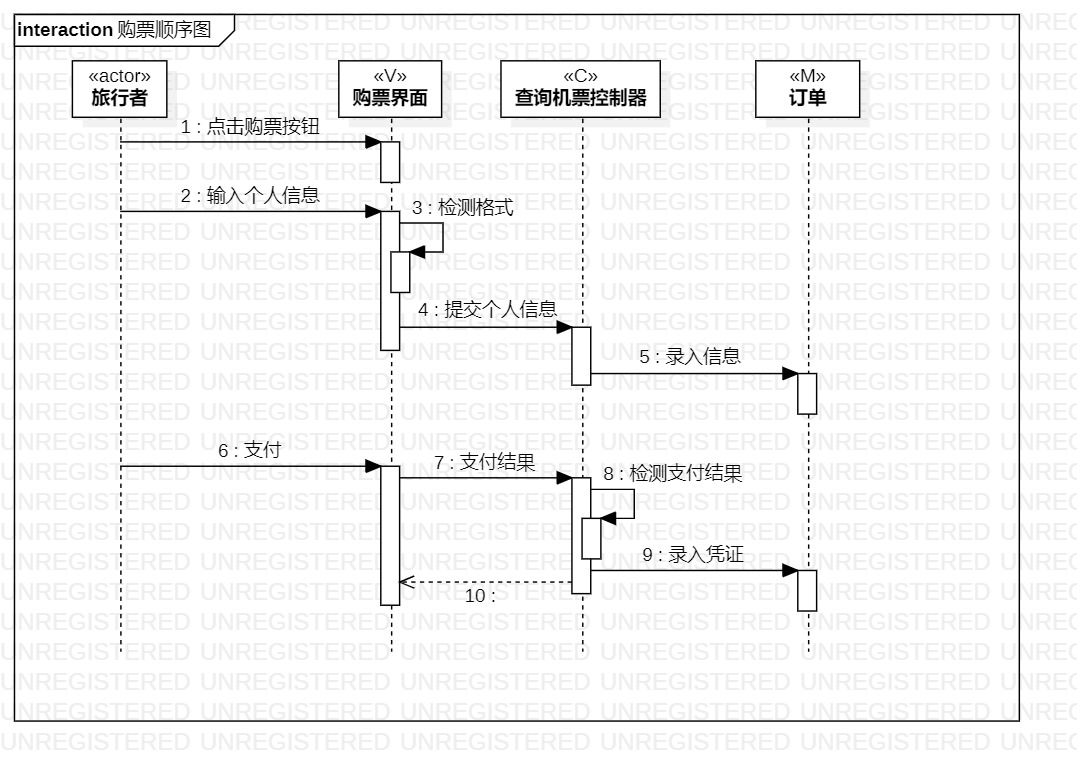
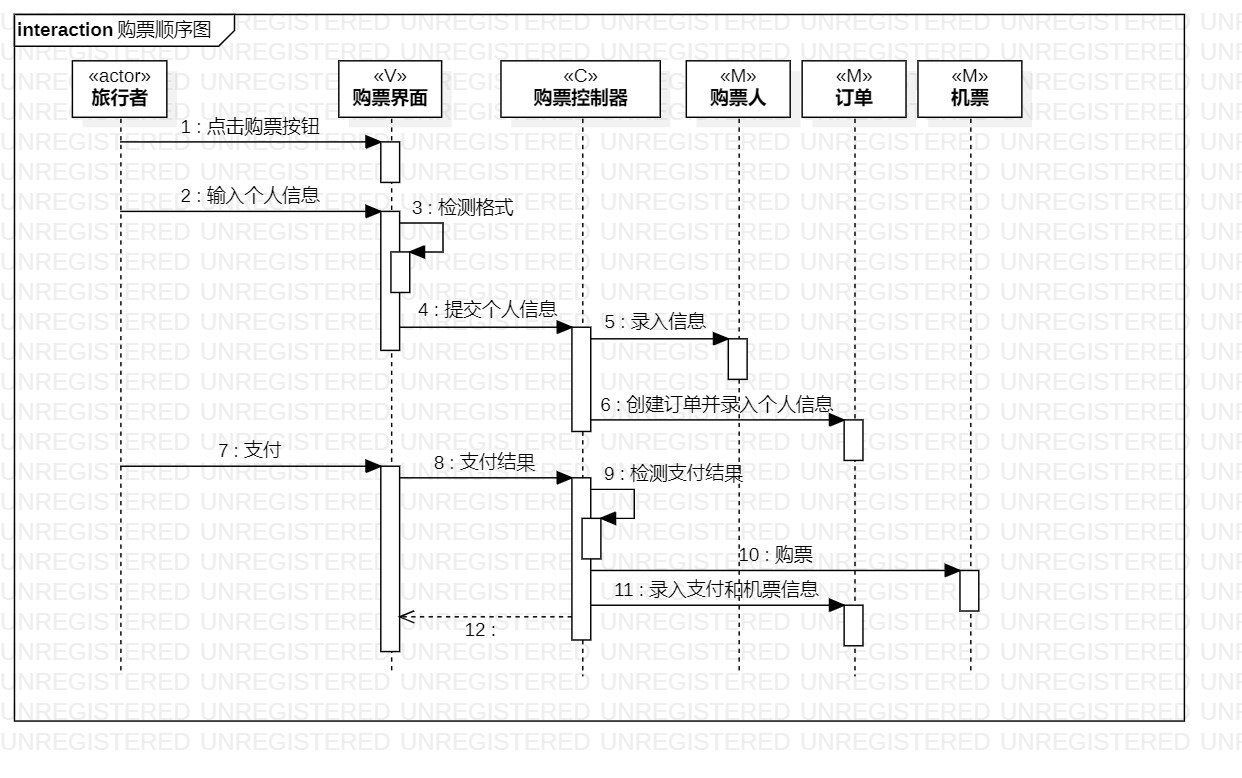
实验六 修改实验四五

diff --git a/students/1714080902316/lab6.md b/students/1714080902316/lab6.md
@@ -24,7 +24,7 @@
 系统对象：查询页面、查询结果页面、查询机票控制器、航班。  
 （2）购票。  
 参与者：旅行者；  
-系统对象：购票页面、购票控制器、订单。  
+系统对象：购票页面、购票控制器、订单、购票人、机票。  
 
 ## 四、实验结果
 

diff --git a/students/1714080902316/lab4.md b/students/1714080902316/lab4.md
@@ -25,9 +25,9 @@ M：航班；
 V：查询页面，查询结果页面；  
 C：查询机票控制器。  
 （2）购票：  
-M：订单；
+M：订单、机票、购票人；
 V：购票页面；  
-C：查询机票控制器。  
+C：购票控制器。  
 
 ## 四、实验结果
 
